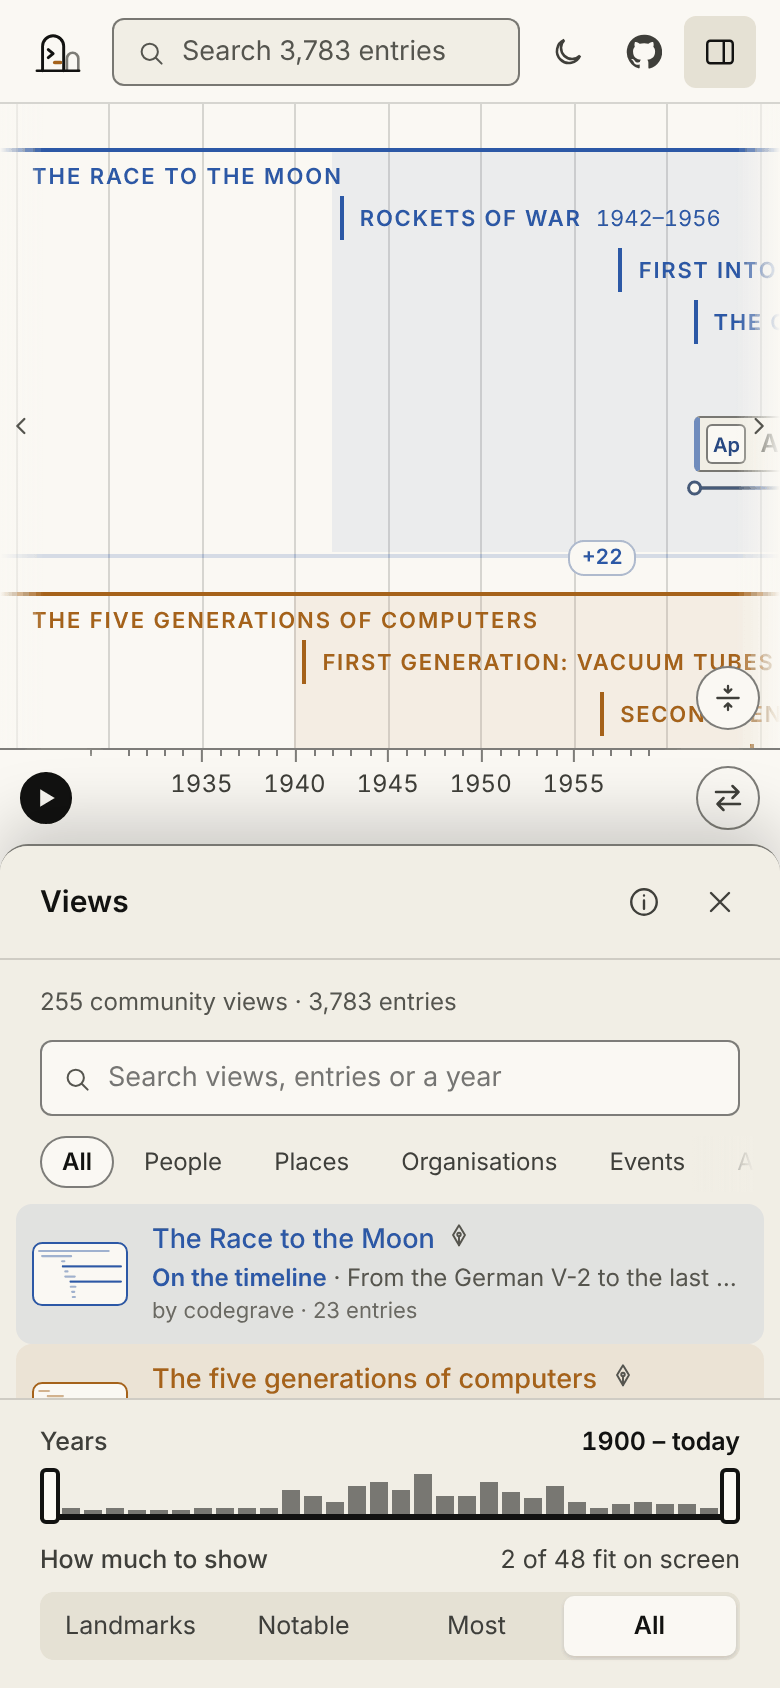
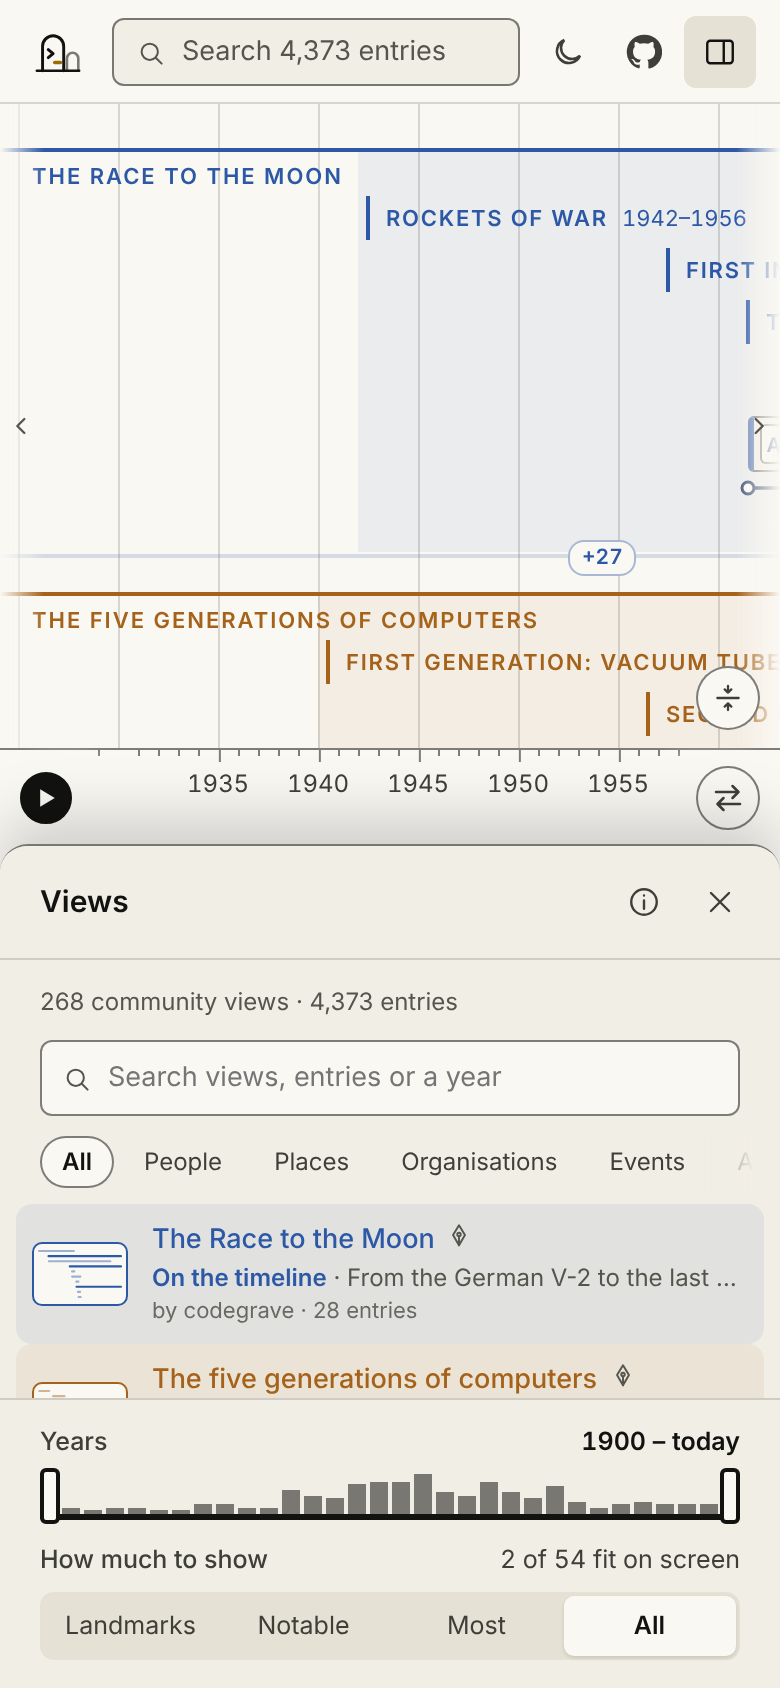
Docs: counts, pruned book ideas and fresh screenshots after the review
Removes 25 ideas that are now books or were listed twice, updates the
measured sizes in BUILD.md and the counts in the README, and retakes the
screenshots at 1440 and 390 pixels.

Claude-Session: https://claude.ai/code/session_01MCuMSh9t4g64ThG4pNXZSJ

diff --git a/docs/BOOK_IDEAS.md b/docs/BOOK_IDEAS.md
@@ -2,8 +2,8 @@
 
 Views on codegrave are books: a title, a hand-picked set of entries and
 chapters that tell the story (`docs/VIEWS.md`). This is a backlog of
-939 subjects that would make good ones and have no book yet, gathered while
-the first 255 were written. Pick one, or bring your own.
+914 subjects that would make good ones and have no book yet, gathered while
+the first 268 were written. Pick one, or bring your own.
 
 How to use the list:
 
@@ -15,11 +15,10 @@ How to use the list:
 - When you publish a book from this list, remove its line in the same pull
   request.
 
-## People (84)
+## People (77)
 
 - **African Explorers and Travellers.** Ibn Battuta, Mansa Musa's pilgrimage and the travellers and traders who linked Africa to the wider world.
 - **Byzantine Emperors.** A thousand years of rule from Constantinople.
-- **Civil Rights and Freedom Movements.** From abolitionists and suffragettes to Rosa Parks, Martin Luther King and the marches that changed laws.
 - **Civil Rights Leaders and Their Faith.** Tutu, King, Gandhi and others whose religious belief led them to struggle for justice.
 - **Edison and Tesla: The War of the Currents.** Two inventors, two kinds of electricity and the contest that decided how the world would be powered.
 - **Famous Musicians' Rivalries.** Beatles versus Stones, Mozart versus Salieri and other feuds.
@@ -30,13 +29,10 @@ How to use the list:
 - **Inventors of the Industrial Revolution.** Watt, Arkwright, Stephenson and others who remade work.
 - **Japan's Great Entrepreneurs.** Matsushita, Honda, Morita and Toyoda: how Japanese companies rebuilt after the war and reached the world.
 - **Kings of Africa.** Mansa Musa, Menelik, Shaka and the great rulers of African kingdoms.
-- **Latin America's Liberators.** Bolivar, San Martin, O'Higgins and Sucre: the Wars of Independence.
 - **Leaders in Exile.** Napoleon, Trotsky, Haile Selassie and the rulers who lost their lands.
 - **Mathematicians Who Cracked Codes.** From the Enigma at Bletchley Park to modern cryptography: the people who made and broke secret messages.
-- **Medieval Kings of England.** From Alfred to Richard III: the Plantagenets and their wars.
 - **Napoleon's Marshals.** The soldiers who followed Napoleon across Europe, and what became of them.
 - **Nobel Peace Prize Winners.** Peacemakers and activists from Bertha von Suttner to Malala.
-- **Nobel Prize Winners Who Changed the World.** The scientists, writers and peacemakers honoured since 1901, and the discoveries and causes they stand for.
 - **Pioneers of Medicine.** Hippocrates, Vesalius, Jenner, Pasteur, Nightingale and Fleming: the people who learned how to cure and prevent disease.
 - **Pioneers of Women in Medicine and Science.** Healers, nurses and inventors whose work reshaped hospitals and laboratories.
 - **Revolutionaries.** Cromwell, Washington, Robespierre, Lenin, Mao and the makers of revolutions.
@@ -55,7 +51,6 @@ How to use the list:
 - **The Fall of the Berlin Wall.** The leaders and protesters of 1989 who ended communist rule in Europe.
 - **The Fall of the Soviet Union.** Gorbachev, Yeltsin and the people who watched an empire come apart.
 - **The Founders of Modern India.** Gandhi, Nehru, Patel, Ambedkar and Bose: the makers of independent India.
-- **The Founding Fathers.** The men and women who wrote the Declaration and Constitution of the United States.
 - **The Founding Mothers of Feminism.** Wollstonecraft, Beauvoir and the many women who argued for education, votes and equal rights.
 - **The Generals of Rome.** Scipio, Marius, Sulla, Pompey and Caesar: the soldiers who made and broke the Republic.
 - **The Generals of the American Civil War.** Grant, Lee, Sherman, Jackson and the battlefield commanders of the Union and Confederacy.
@@ -81,7 +76,6 @@ How to use the list:
 - **The Scientists Who Changed Medicine.** Harvey, Jenner, Lister, Curie, Fleming and Hodgkin: discoveries that extended and saved lives.
 - **The Seven Years' War.** Frederick, Maria Theresa and Pitt: the first world war fought across the globe.
 - **The Shoguns of Japan.** Seven centuries of military rulers behind the emperor.
-- **The Spanish Conquistadors.** Cortes, Pizarro and the men who took the Aztec and Inca empires.
 - **The Spy Masters.** Walsingham, Fouche, Beria and the heads of secret services in history.
 - **The Tech Founders Who Built the Internet Age.** Jobs, Gates, Bezos, Zuckerberg and Ma: how a few companies came to shape daily life online.
 - **The Terror: Robespierre and the French Revolution.** How a revolution devoured its own leaders.
@@ -93,7 +87,6 @@ How to use the list:
 - **The Women of the French Revolution.** Olympe de Gouges, Charlotte Corday, Madame Roland and the women who joined and opposed the Revolution.
 - **The Women of the Scientific Revolution.** Du Châtelet, Merian, Cavendish and others who joined in the new science despite exclusion.
 - **The Women Prime Ministers.** Bandaranaike, Meir, Thatcher, Bhutto and others who led their countries.
-- **The Women Who Won the Vote.** Suffragists and suffragettes from New Zealand to Britain and the United States.
 - **Women Artists You Should Know.** From Artemisia Gentileschi to Frida Kahlo and Yayoi Kusama.
 - **Women Composers.** Hildegard, Clara Schumann and others who wrote the music history ignored.
 - **Women Explorers.** Travellers and climbers history forgot
@@ -102,7 +95,7 @@ How to use the list:
 - **Women Who Explored the World.** Travellers, mountaineers and pioneers of the air and space whose journeys are often missing from the usual stories.
 - **Women Who Flew.** Pioneering aviators from Harriet Quimby to modern astronauts.
 
-## Places (120)
+## Places (117)
 
 - **Africa's Ancient Kingdoms in Stone.** Aksum, Great Zimbabwe, Kilwa and the cities of the Swahili coast.
 - **Alexander and His Successors.** The conquests of Alexander and the Greek kingdoms that followed him.
@@ -127,7 +120,6 @@ How to use the list:
 - **Hidden Cities of the Silk Road.** Merv, Bukhara, Khiva and Kashgar: oases that rose and fell with the caravans.
 - **Island Capitals.** Venice, Singapore, Manhattan and other cities made by the sea.
 - **Japan from Shogun to Empire.** How Japan changed from feudal rule to a modern empire and then to a democracy.
-- **Korea Through the Dynasties.** From Goryeo and Joseon to colonial rule and the two Koreas.
 - **Lost Countries.** States that vanished from the map in the twentieth century.
 - **Lost Wonders of the Medieval World.** The porcelain tower of Nanjing, the Library of Baghdad and the marvels that vanished.
 - **Mexico: Aztecs to Revolution.** Five centuries of Mexican history.
@@ -137,7 +129,6 @@ How to use the list:
 - **Mountains of Stone: The Great Pyramids and Their Rivals.** Egypt, Mesoamerica, Sudan and Southeast Asia: the pyramid builders compared.
 - **Museums as Landmarks.** The Louvre, the British Museum and the buildings that keep humanity's treasures.
 - **Napoleon and the Remaking of Europe.** Wars, laws and a new map between 1799 and 1815.
-- **Places of Pilgrimage.** Mecca, Jerusalem, Santiago and Varanasi: the roads people walk for faith.
 - **Planned Cities from Babylon to Brasilia.** Grids, circles and garden suburbs: the dream of designing a city from nothing.
 - **Railway Stations as Cathedrals.** Grand Central, St Pancras and the age when stations looked like temples.
 - **Roman Britain.** Londinium, Hadrian's Wall, Bath and the island at the edge of the empire.
@@ -192,7 +183,6 @@ How to use the list:
 - **The Mongol Storm.** Genghis Khan and his heirs and how they remade Eurasia.
 - **The Opium Wars and the Fall of the Qing.** How foreign pressure and revolt ended imperial China.
 - **The Ottoman World.** Six centuries of sultans, janissaries and a state that spanned three continents.
-- **The Pacific Kingdoms.** Tonga, Hawaii, Tahiti and other island states before colonisation.
 - **The Palaces of the Mughals.** Agra, Delhi, Lahore and Fatehpur Sikri in the age of the great emperors.
 - **The Palaces of the World.** Versailles, the Forbidden City, the Alhambra and the courts built to show power.
 - **The Panama and Suez Canals.** Two cuts through the land that reshaped world shipping.
@@ -279,7 +269,7 @@ How to use the list:
 - **Universities of the Islamic Golden Age.** Baghdad, Cordoba, Cairo and Fez: centres of learning from Spain to Persia.
 - **Workers' Movements and Unions.** From the Chartists to Solidarity: how working people organised for a share of power.
 
-## Events (123)
+## Events (118)
 
 - **Air Disasters and How Flying Got Safe.** How each crash led to a safer sky
 - **Alexander the Great's Campaigns.** From Macedon to the Indus.
@@ -310,7 +300,6 @@ How to use the list:
 - **The Age of Exploration by Sea.** Caravels, compasses and the ships that mapped the world.
 - **The Age of Sail.** Wooden ships, winds and the empires they built
 - **The American Civil War.** Four years that decided slavery and the Union.
-- **The American Revolution.** The road from tax protest to independence.
 - **The Ancient Games.** Olympia, Delphi and the other contests of Greece
 - **The Arab Spring.** Protests that shook a region.
 - **The Arab-Israeli Conflict.** Wars and peace efforts from 1948 to today.
@@ -350,7 +339,6 @@ How to use the list:
 - **The Gulf Wars.** Iraq, Kuwait and the Middle East after 1980.
 - **The Haitian Revolution.** The only successful slave revolt that created a state.
 - **The History of the Marathon.** From a Greek legend to a mass event
-- **The Holocaust.** How it happened, who resisted and how the world responded.
 - **The Indian Rebellion of 1857.** Mutiny, rising and the end of Company rule.
 - **The Interwar Years.** Hope, crisis and dictators between two wars.
 - **The Iranian Revolution.** How a monarchy fell and a republic began.
@@ -370,7 +358,6 @@ How to use the list:
 - **The Race to the South Pole.** Amundsen, Scott and Shackleton on the ice: the great contest of polar exploration and the price some paid.
 - **The Reconquista.** Eight centuries of war and exchange in Iberia.
 - **The Rise and Fall of Japan Inc.** Japan boom, its bubble and its long aftermath
-- **The Russian Revolution.** From the last tsar to the first Soviet state.
 - **The Russo-Japanese War.** The first modern defeat of a European power by an Asian one.
 - **The Salem Witch Trials.** Fear and law in a colonial town.
 - **The Scramble for Africa.** How Europe carved up a continent.
@@ -395,17 +382,15 @@ How to use the list:
 - **The Vikings in the North Atlantic.** Voyages to Iceland, Greenland and North America
 - **The War on Terror.** Two decades after September 11.
 - **The Warring States of China.** Seven kingdoms and the road to the first emperor.
-- **The Wars of Independence in Latin America.** Bolívar, San Martín and the end of the Spanish Empire.
 - **The Wars of the Roses.** Houses, battles and betrayals on the road to the Tudors.
 - **The Western Front.** Four years of trench warfare from the Channel to Switzerland.
 - **The Winter Olympics.** From Chamonix to the snow of modern games
-- **Voyagers of the Pacific.** From Polynesian navigators to Cook and Magellan, how people found and crossed the largest ocean on Earth.
 - **Watergate.** The scandal that brought down a president.
 - **Wimbledon and the Grand Slams.** The history of tennis tournaments
 - **Y2K: The Bug That Wasn't.** The millennium panic and the work that prevented it.
 - **Zheng He and the Ming Voyages.** The treasure fleets that sailed to Africa.
 
-## Arts & media (152)
+## Arts & media (147)
 
 - **African Art and Its Collectors.** Masks, bronzes and the debate on where they belong.
 - **African Art and Its Modern Admirers.** Benin bronzes, Ife heads and the masks that inspired Picasso.
@@ -445,7 +430,6 @@ How to use the list:
 - **Great Sitcoms.** Laughs from the living room, from Lucy to Friends.
 - **Greek and Roman Satire.** Juvenal, Lucian and the long tradition of mocking the powerful.
 - **Greek Tragedy and Comedy.** Aeschylus, Sophocles, Euripides and Aristophanes at the festival of Dionysus.
-- **Greek Tragedy and the Birth of Theatre.** Aeschylus, Sophocles, Euripides and the festivals of Athens where drama began.
 - **Hard-Boiled Detectives.** Hammett, Chandler and the noir city.
 - **Heavy Metal: Loud History.** Birmingham, black leather and a worldwide family of bands.
 - **Heroes and Villains of the Page.** The great characters of fiction, from Hamlet to Sherlock Holmes.
@@ -471,7 +455,6 @@ How to use the list:
 - **Nature on Television.** The wildlife series that took viewers to the ends of the Earth.
 - **Newspaper Comic Strips.** Peanuts, Calvin and Hobbes and the funnies page from the Yellow Kid onward.
 - **Nobel Prize Winners in Literature.** Tagore to Morrison: the writers honoured by Stockholm, and the stories that surprised the committee.
-- **Nobel Prize Writers.** A century of laureates in literature and what their books said.
 - **Nordic Noir.** Larsson, Mankell and the dark crime fiction of Scandinavia.
 - **Opera: Three Hundred Years of Singing Drama.** Monteverdi to Puccini and the great houses that staged them.
 - **Persian Poetry.** Ferdowsi, Rumi, Hafez and Omar Khayyam.
@@ -481,7 +464,6 @@ How to use the list:
 - **Reggae and the Caribbean Sound.** Jamaica's rhythms and their worldwide reach.
 - **Science Fiction on Screen.** Rockets, robots and aliens from Melies to modern blockbusters.
 - **Shakespeare's Rivals and Friends.** Marlowe, Jonson and the crowded London stage of the 1590s.
-- **Shakespeare's World.** The plays, the playhouses and the people of Elizabethan and Jacobean London.
 - **Soap Operas and Telenovelas.** The long stories that tied together whole countries.
 - **Street Art and Graffiti.** From subway trains to Banksy.
 - **Tabloids and Scandal Sheets.** The popular press, from the penny papers to the phone-hacking affair.
@@ -503,7 +485,6 @@ How to use the list:
 - **The Dead Sea Scrolls and Other Lost Texts.** Ancient manuscripts found by chance and what they changed.
 - **The Detective Story.** From Poe's Dupin to Sherlock Holmes, Poirot and modern thrillers, a hundred and eighty years of crime fiction.
 - **The Dutch Golden Age of Painting.** Rembrandt, Vermeer and Hals in the richest trading nation of the seventeenth century.
-- **The Film Festivals.** Cannes, Venice, Sundance and the careers they made
 - **The First Artists.** Cave paintings and early art by ice age people.
 - **The Golden Age of Comic Books.** Heroes, horror and crime comics of the 1940s and 1950s.
 - **The Great Cathedrals of Europe.** Stone, glass and ambition: the medieval builders of Chartres, Notre-Dame and Cologne.
@@ -516,7 +497,6 @@ How to use the list:
 - **The Harlem Renaissance.** Writers, poets and artists who made Harlem the center of Black culture in the 1920s.
 - **The History of Radio Drama.** Voices in the dark and the shows that kept families listening.
 - **The History of the Encyclopedia.** From Pliny and Diderot to Wikipedia: attempts to collect all knowledge.
-- **The Latin American Boom.** García Márquez, Borges, Cortázar and Vargas Llosa and the novels that brought magic realism to the world.
 - **The Magazines That Shaped a Century.** Time, Life, Vogue and the New Yorker.
 - **The Mexican Muralists.** Rivera, Orozco and Siqueiros, and the walls on which they painted the history of Mexico.
 - **The Modern Artists Who Broke the Rules.** From Cubism and Surrealism to Pop Art: a century of painters and sculptors who tore up the old rulebook.
@@ -560,7 +540,7 @@ How to use the list:
 - **World Music Voices.** Fela Kuti, Nusrat Fateh Ali Khan, Cesária Évora and the artists who put their traditions on the world stage.
 - **Writers of the Harlem Renaissance.** Langston Hughes, Zora Neale Hurston and the poets and novelists of Black New York in the 1920s.
 
-## Knowledge & belief (72)
+## Knowledge & belief (70)
 
 - **Alchemists and Their Dreams.** Gold, elixirs and the roots of chemistry.
 - **Ancient DNA.** How genes from old bones rewrote human history.
@@ -575,7 +555,6 @@ How to use the list:
 - **Einstein's Universe.** Relativity, light and gravity: the ideas of Albert Einstein and the experiments that tested them.
 - **Existentialism: Sartre, Beauvoir and Their Circle.** The ideas of freedom, choice and meaning that shaped postwar Europe, in cafés, books and politics.
 - **Famous Proofs That Changed Mathematics.** Euclid, Gödel, Wiles and Perelman: the arguments that settled long-standing questions.
-- **Genetics From Mendel to CRISPR.** The century and a half that opened the code of life.
 - **Heresies and Banned Ideas.** Gnostics, Cathars and others whose beliefs were condemned.
 - **How Chinese Characters Work.** Oracle bones, seal script and simplified characters.
 - **How We Learned the Age of the Earth.** From Bishop Ussher to radiometric dating.
@@ -607,7 +586,6 @@ How to use the list:
 - **The Golden Age of Islamic Science.** Baghdad's scholars, their mathematics, medicine, optics and astronomy, and what Europe learned.
 - **The Greatest Unsolved Problems in Mathematics.** From Goldbach to Riemann, the puzzles that have beaten the best minds for centuries.
 - **The Greek Philosophers Before Socrates.** Thales, Pythagoras, Heraclitus and Democritus asked what the world is made of and how it works.
-- **The Hindu Epics and Their Worlds.** The Mahabharata and Ramayana, and how they shaped culture across Asia.
 - **The History of Atheism and Doubt.** From ancient sceptics to modern secular humanism.
 - **The History of English.** From Anglo-Saxon tribes to a global language.
 - **The History of Money.** From shells to Bitcoin
@@ -635,7 +613,7 @@ How to use the list:
 - **Women Philosophers and Scientists.** The thinkers history left out, from Hypatia to Emmy Noether.
 - **Writing Systems of the World.** Syllabaries, abjads, alphabets and logograms compared.
 
-## Society & daily life (96)
+## Society & daily life (95)
 
 - **A History of Beer.** Mesopotamian brewers, monastic ales and the lager revolution.
 - **A History of Chocolate.** From Mesoamerican cacao drinks to the modern bar.
@@ -677,7 +655,6 @@ How to use the list:
 - **The Dishes of the Silk Road.** Noodles, dumplings and flatbreads that travelled with caravans.
 - **The Environmental Movement and Its Founders.** Carson, Muir, Goodall and others who taught the world to protect wild places and species.
 - **The Fashion Houses of Paris.** Haute couture from Worth to the present day.
-- **The Festivals of Light.** Diwali, Hanukkah, the Lantern Festival and the rest
 - **The Football Legends.** Pelé to Messi: the players who defined the world's most popular sport.
 - **The Founders of Modern Sport.** FA, MCC and the other bodies that wrote the rules of games.
 - **The Great Craft Guilds.** How medieval trades set rules for quality and training.
@@ -778,7 +755,7 @@ How to use the list:
 - **Whales From Land to Sea.** How a four-legged land animal turned into the blue whale.
 - **Wolves Return.** The story of wolves in Yellowstone.
 
-## Earth & space (64)
+## Earth & space (62)
 
 - **Antarctica: The Last Continent.** From a lost forest world to ice cap, and the explorers who reached the pole.
 - **Black Holes: The Dark Heart of the Universe.** From a 1783 thought experiment to the first picture of a black hole.
@@ -811,7 +788,6 @@ How to use the list:
 - **The Age of Fishes.** The Devonian world: armoured giants, sharks and the first fish to crawl on land.
 - **The Alps: A Mountain History.** Geology, glaciers, passes and the people who crossed them from Hannibal onward.
 - **The Amazon: River of Rivers.** How the world's largest river basin formed and its place in history.
-- **The Andes from Rock to Empire.** How a mountain range shaped the Inca and everything after.
 - **The Arctic: A Frozen Ocean's History.** Ice, whales, explorers and a warming sea.
 - **The Astronomers: Mapping the Heavens.** From Babylonian skywatchers to Hubble and Rubin, how humans learned the size and age of the universe.
 - **The Birth of the Atlantic.** How the ocean opened over 180 million years and what lies on its ridge.
@@ -827,7 +803,6 @@ How to use the list:
 - **The Five Great Extinctions.** Five times life on Earth nearly ended, and what rose after.
 - **The Great Deserts of the World.** The Sahara, the Gobi, the Atacama and the Namib, and the life and trade that crossed them.
 - **The Great Lakes of Africa.** The Rift Valley lakes, their fishes and the peoples who live around them.
-- **The Great Rivers and the Civilizations Beside Them.** The Nile, Tigris, Indus, Yellow River and others, and the first cities that grew on their banks.
 - **The Living Planet: Oxygen and the Origin of Complex Life.** How microbes changed the air and prepared the way for animals.
 - **The Mediterranean Before History.** Dry sea, flood and the first sailors of the Mediterranean basin.
 - **The Milky Way and Its Neighbours.** Our galaxy, its companions and the great collision to come.

diff --git a/docs/BUILD.md b/docs/BUILD.md
@@ -65,10 +65,10 @@ word that starts "cu"), and `boot.json` says which form is in use
 
 ## Sizes to expect
 
-Measured on 3,800 entries and 396 views (255 of them community books): the
-build takes about half a second; `boot.json` is about 58 KB compressed, a book
-4 to 17 KB, the largest classical view about 63 KB, the search index about
-170 KB, a detail file about 5 KB. Detail files hold at most about 64 entries
+Measured on 4,400 entries and 409 views (268 of them community books): the
+build takes under a second; `boot.json` is about 61 KB compressed, a book
+4 to 18 KB, the largest classical view about 63 KB, the search index about
+195 KB, a detail file about 6 KB. Detail files hold at most about 64 entries
 each: the build uses more hex digits of the hash as the data grows
 (`detail.chars` in `boot.json`). A classical view carries its 200 best-ranked
 entries however many it holds, so no file grows with the dataset except the

diff --git a/README.md b/README.md
@@ -15,10 +15,10 @@ language from first release to end of support. It began as a timeline of
 computing, and computing is still its deepest shelf. Click a line to read its
 history, with dates, sources, links and images.
 
-The base holds about 3,800 entries on one map of ten branches: People,
+The base holds about 4,400 entries on one map of ten branches: People,
 Places, Organisations, Events, Arts & media, Knowledge & belief, Society &
 daily life, Life, Earth & space, and Technology (with Computing). On top of
-it sit community views: more than 180 books such as "The Race to the Moon",
+it sit community views: more than 260 books such as "The Race to the Moon",
 "Seven Hills to World Power" and "Women Who Changed Science", each a title,
 a hand-picked set of entries and chapters that tell the story.
 
